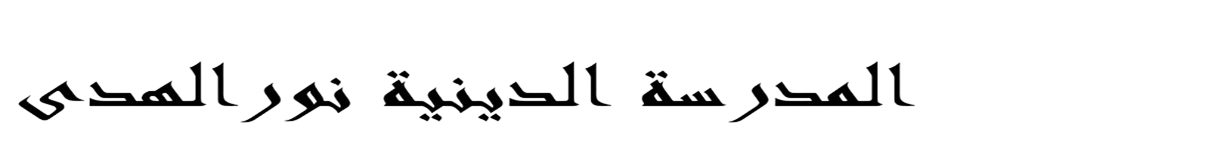
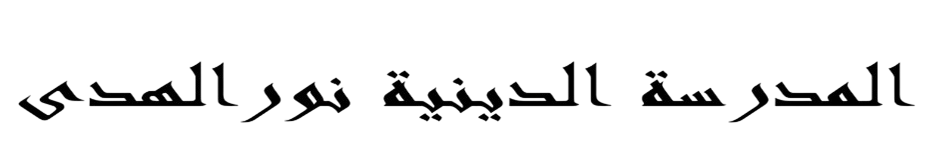
perbaikan style

Changed region(s): [[0.0, 0.3922, 0.7779, 0.8105], [0.7779, 0.4183, 0.9957, 0.8105], [0.5912, 0.732, 0.6223, 0.8105]]

diff --git a/src/app/login/page.tsx b/src/app/login/page.tsx
@@ -1,8 +1,9 @@
 "use client";
 
+import Image from "next/image";
 import { useState, Suspense } from "react";
 import { useRouter, useSearchParams } from "next/navigation";
-import { Moon, Lock, Mail, Loader2 } from "lucide-react";
+import { Lock, Mail, Loader2, Eye, EyeOff } from "lucide-react";
 
 function LoginPageInner() {
   const router = useRouter();
@@ -11,6 +12,7 @@ function LoginPageInner() {
 
   const [email, setEmail] = useState("[email redacted]");
   const [password, setPassword] = useState("");
+  const [showPassword, setShowPassword] = useState(false);
   const [loading, setLoading] = useState(false);
   const [error, setError] = useState<string | null>(null);
 
@@ -41,11 +43,25 @@ function LoginPageInner() {
   return (
     <main className="min-h-screen flex items-center justify-center bg-madin-cream px-4 py-10">
       <div className="w-full max-w-md">
-        <div className="flex flex-col items-center gap-2 mb-6">
-          <div className="w-12 h-12 rounded-xl bg-madin-orange flex items-center justify-center">
-            <Moon className="w-6 h-6 text-madin-navy" />
+        <div className="flex flex-col items-center gap-3 mb-6">
+          <div className="w-20 h-20 rounded-2xl bg-white/70 border border-madin-line p-2 shadow-sm">
+            <Image
+              src="/icon.png"
+              alt="Madin icon"
+              width={80}
+              height={80}
+              priority
+              className="w-full h-full object-contain"
+            />
           </div>
-          <p className="font-display font-semibold text-madin-navy text-lg">Madin</p>
+          <Image
+            src="/madin-teks.png"
+            alt="Madin"
+            width={180}
+            height={48}
+            priority
+            className="h-8 w-auto"
+          />
           <p className="text-xs text-black/40">Sistem Informasi Madrasah Diniyah</p>
         </div>
 
@@ -82,13 +98,21 @@ function LoginPageInner() {
               <div className="flex items-center gap-2 border border-madin-line rounded-lg px-3 py-2.5 focus-within:border-madin-orange focus-within:ring-2 focus-within:ring-madin-orange/30 transition-colors">
                 <Lock className="w-4 h-4 text-black/30 shrink-0" />
                 <input
-                  type="password"
+                  type={showPassword ? "text" : "password"}
                   required
                   value={password}
                   onChange={(e) => setPassword(e.target.value)}
                   placeholder="••••••••"
                   className="w-full bg-transparent text-sm outline-none"
                 />
+                <button
+                  type="button"
+                  onClick={() => setShowPassword((v) => !v)}
+                  aria-label={showPassword ? "Sembunyikan password" : "Tampilkan password"}
+                  className="text-black/40 hover:text-madin-navy transition-colors"
+                >
+                  {showPassword ? <EyeOff className="w-4 h-4" /> : <Eye className="w-4 h-4" />}
+                </button>
               </div>
             </div>
 

diff --git a/src/components/dashboard/Sidebar.tsx b/src/components/dashboard/Sidebar.tsx
@@ -1,5 +1,6 @@
 "use client";
 
+import Image from "next/image";
 import Link from "next/link";
 import { usePathname } from "next/navigation";
 import { useEffect, useState } from "react";
@@ -13,7 +14,6 @@ import {
   NotebookPen,
   Megaphone,
   Settings,
-  Moon,
   Menu,
   X,
 } from "lucide-react";
@@ -32,12 +32,12 @@ const NAV = [
 function Brand() {
   return (
     <div className="flex items-center gap-2">
-      <div className="w-9 h-9 rounded-lg bg-madin-orange flex items-center justify-center shrink-0">
-        <Moon className="w-5 h-5 text-madin-navy" />
+      <div className="w-10 h-10 rounded-lg bg-white/10 p-1.5 shrink-0">
+        <Image src="/icon.png" alt="Madin icon" width={40} height={40} className="w-full h-full object-contain" />
       </div>
-      <div>
-        <p className="font-display font-semibold leading-tight">Madin</p>
-        <p className="text-[11px] text-white/50 leading-tight">Sistem Informasi</p>
+      <div className="min-w-0">
+        <Image src="/madin-teks.png" alt="Madin" width={96} height={24} className="h-5 w-auto" />
+        <p className="text-[11px] text-white/50 leading-tight mt-0.5">Sistem Informasi</p>
       </div>
     </div>
   );